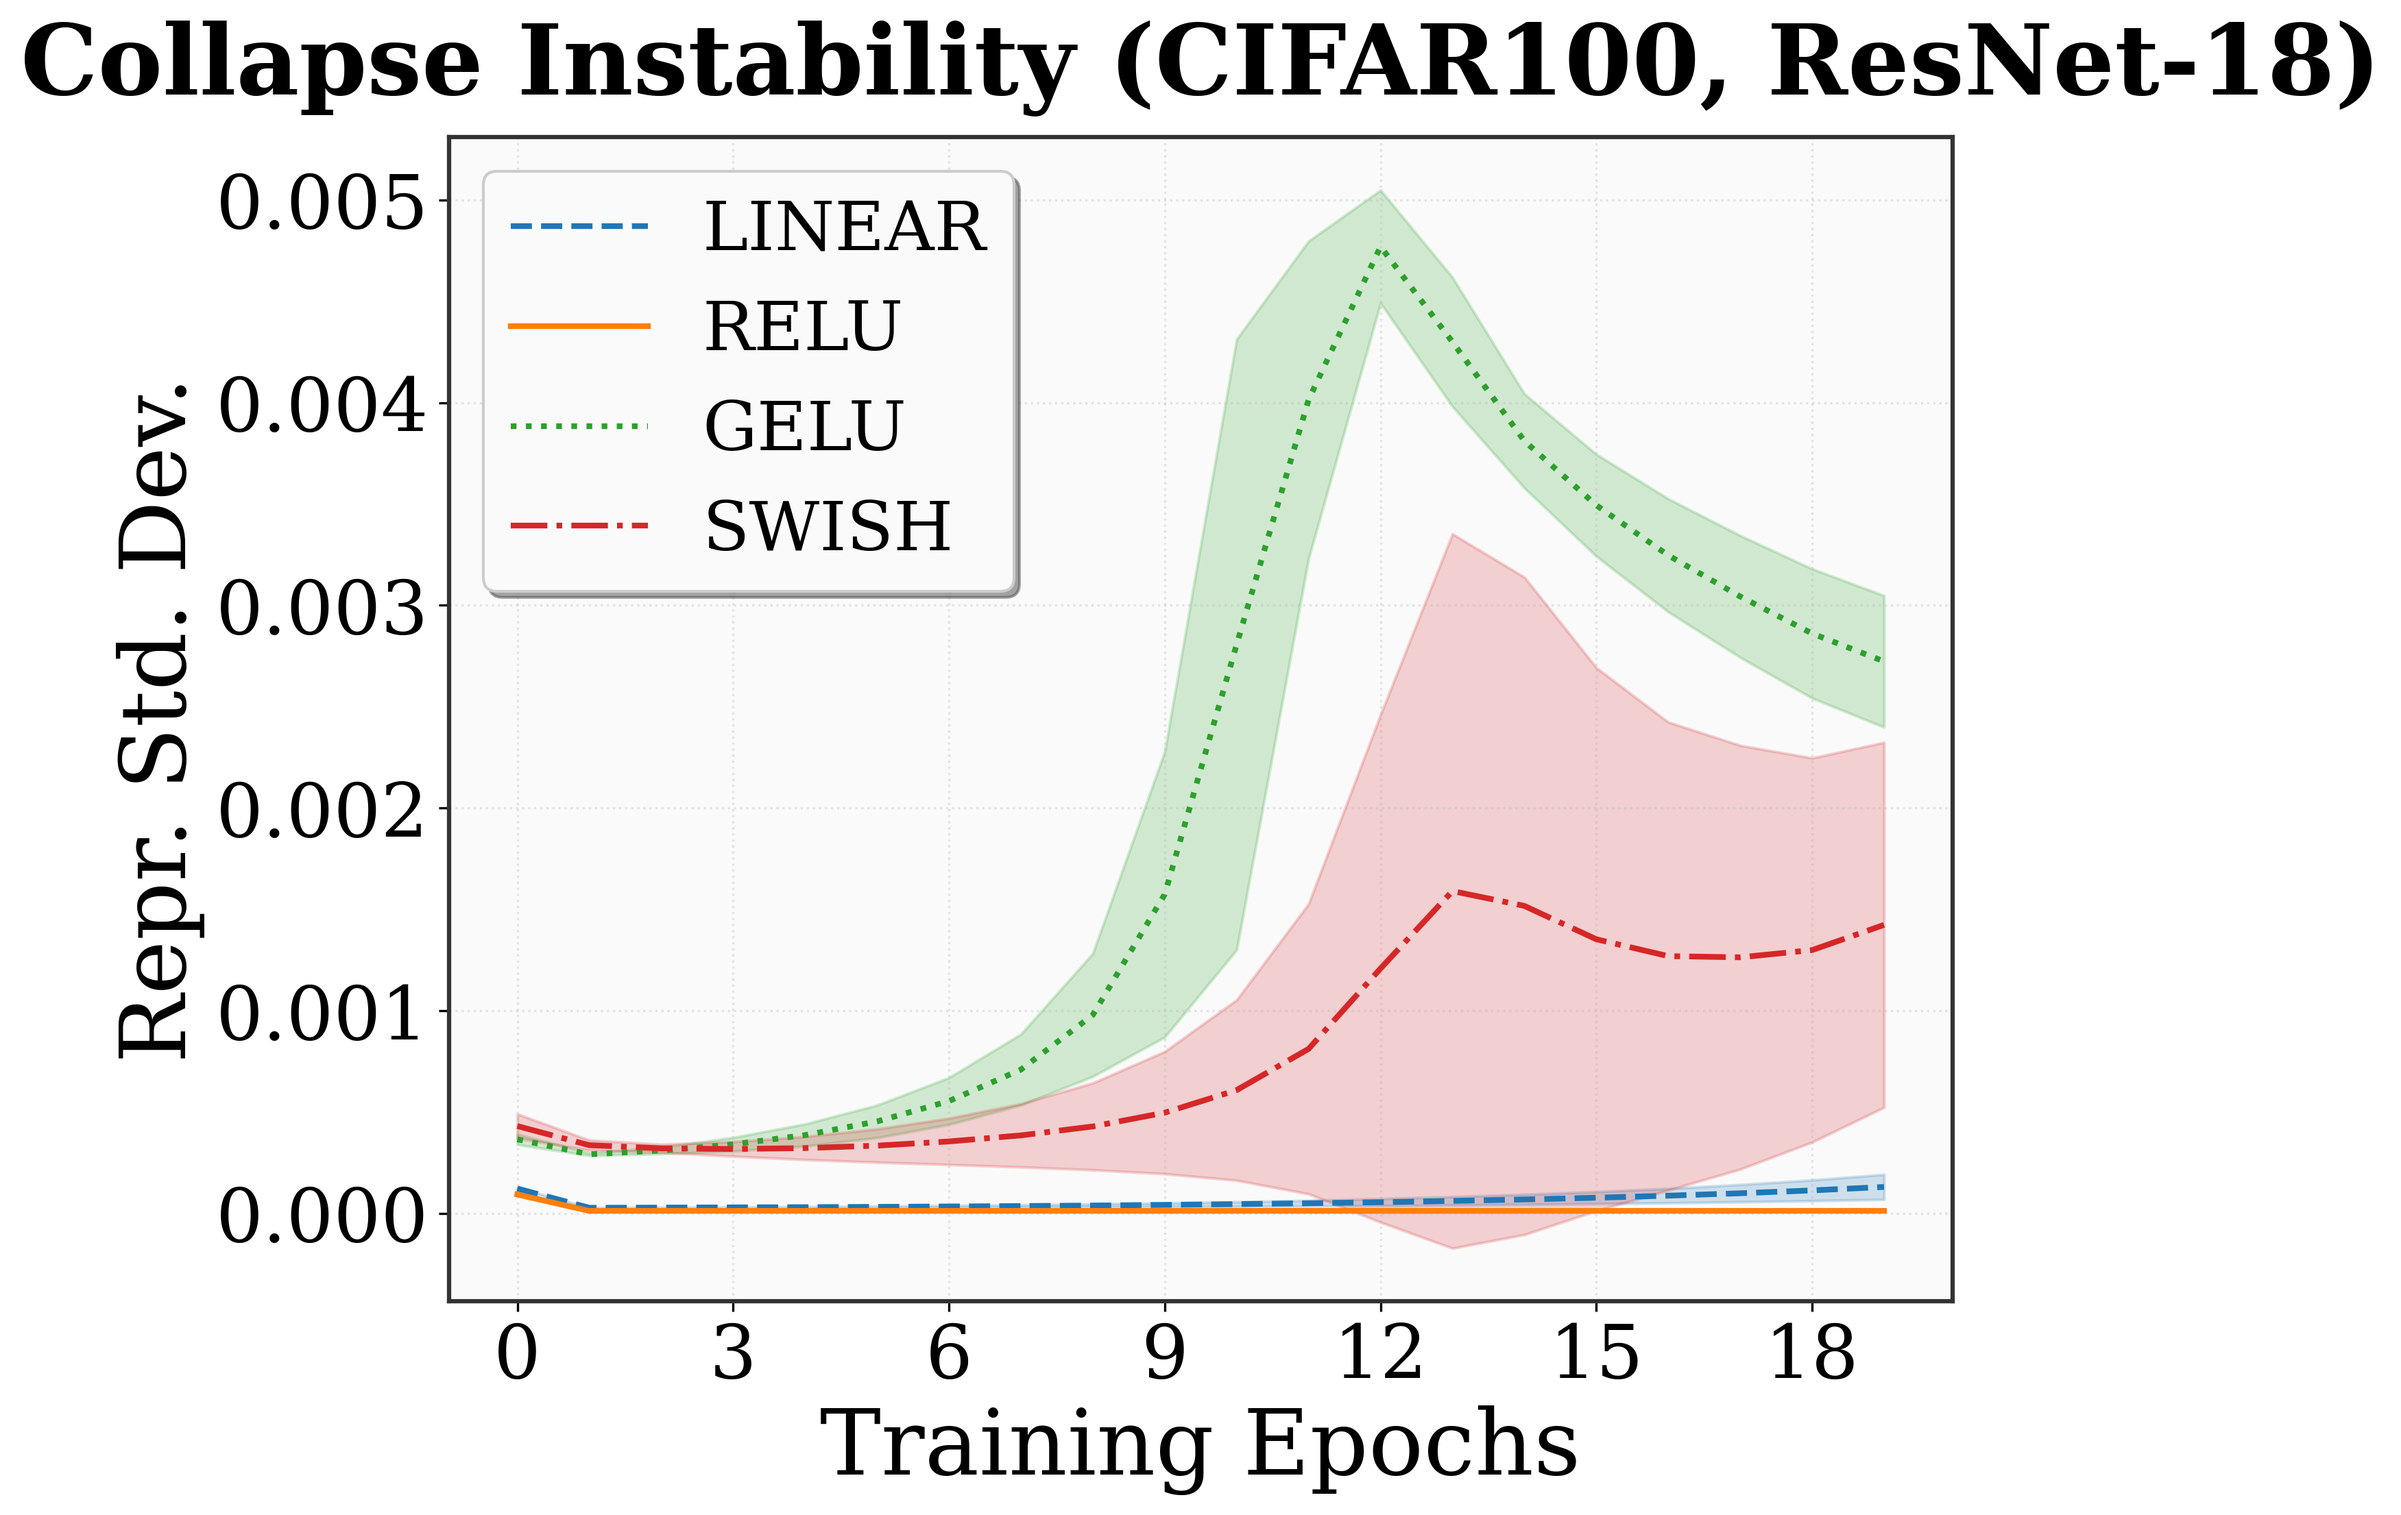
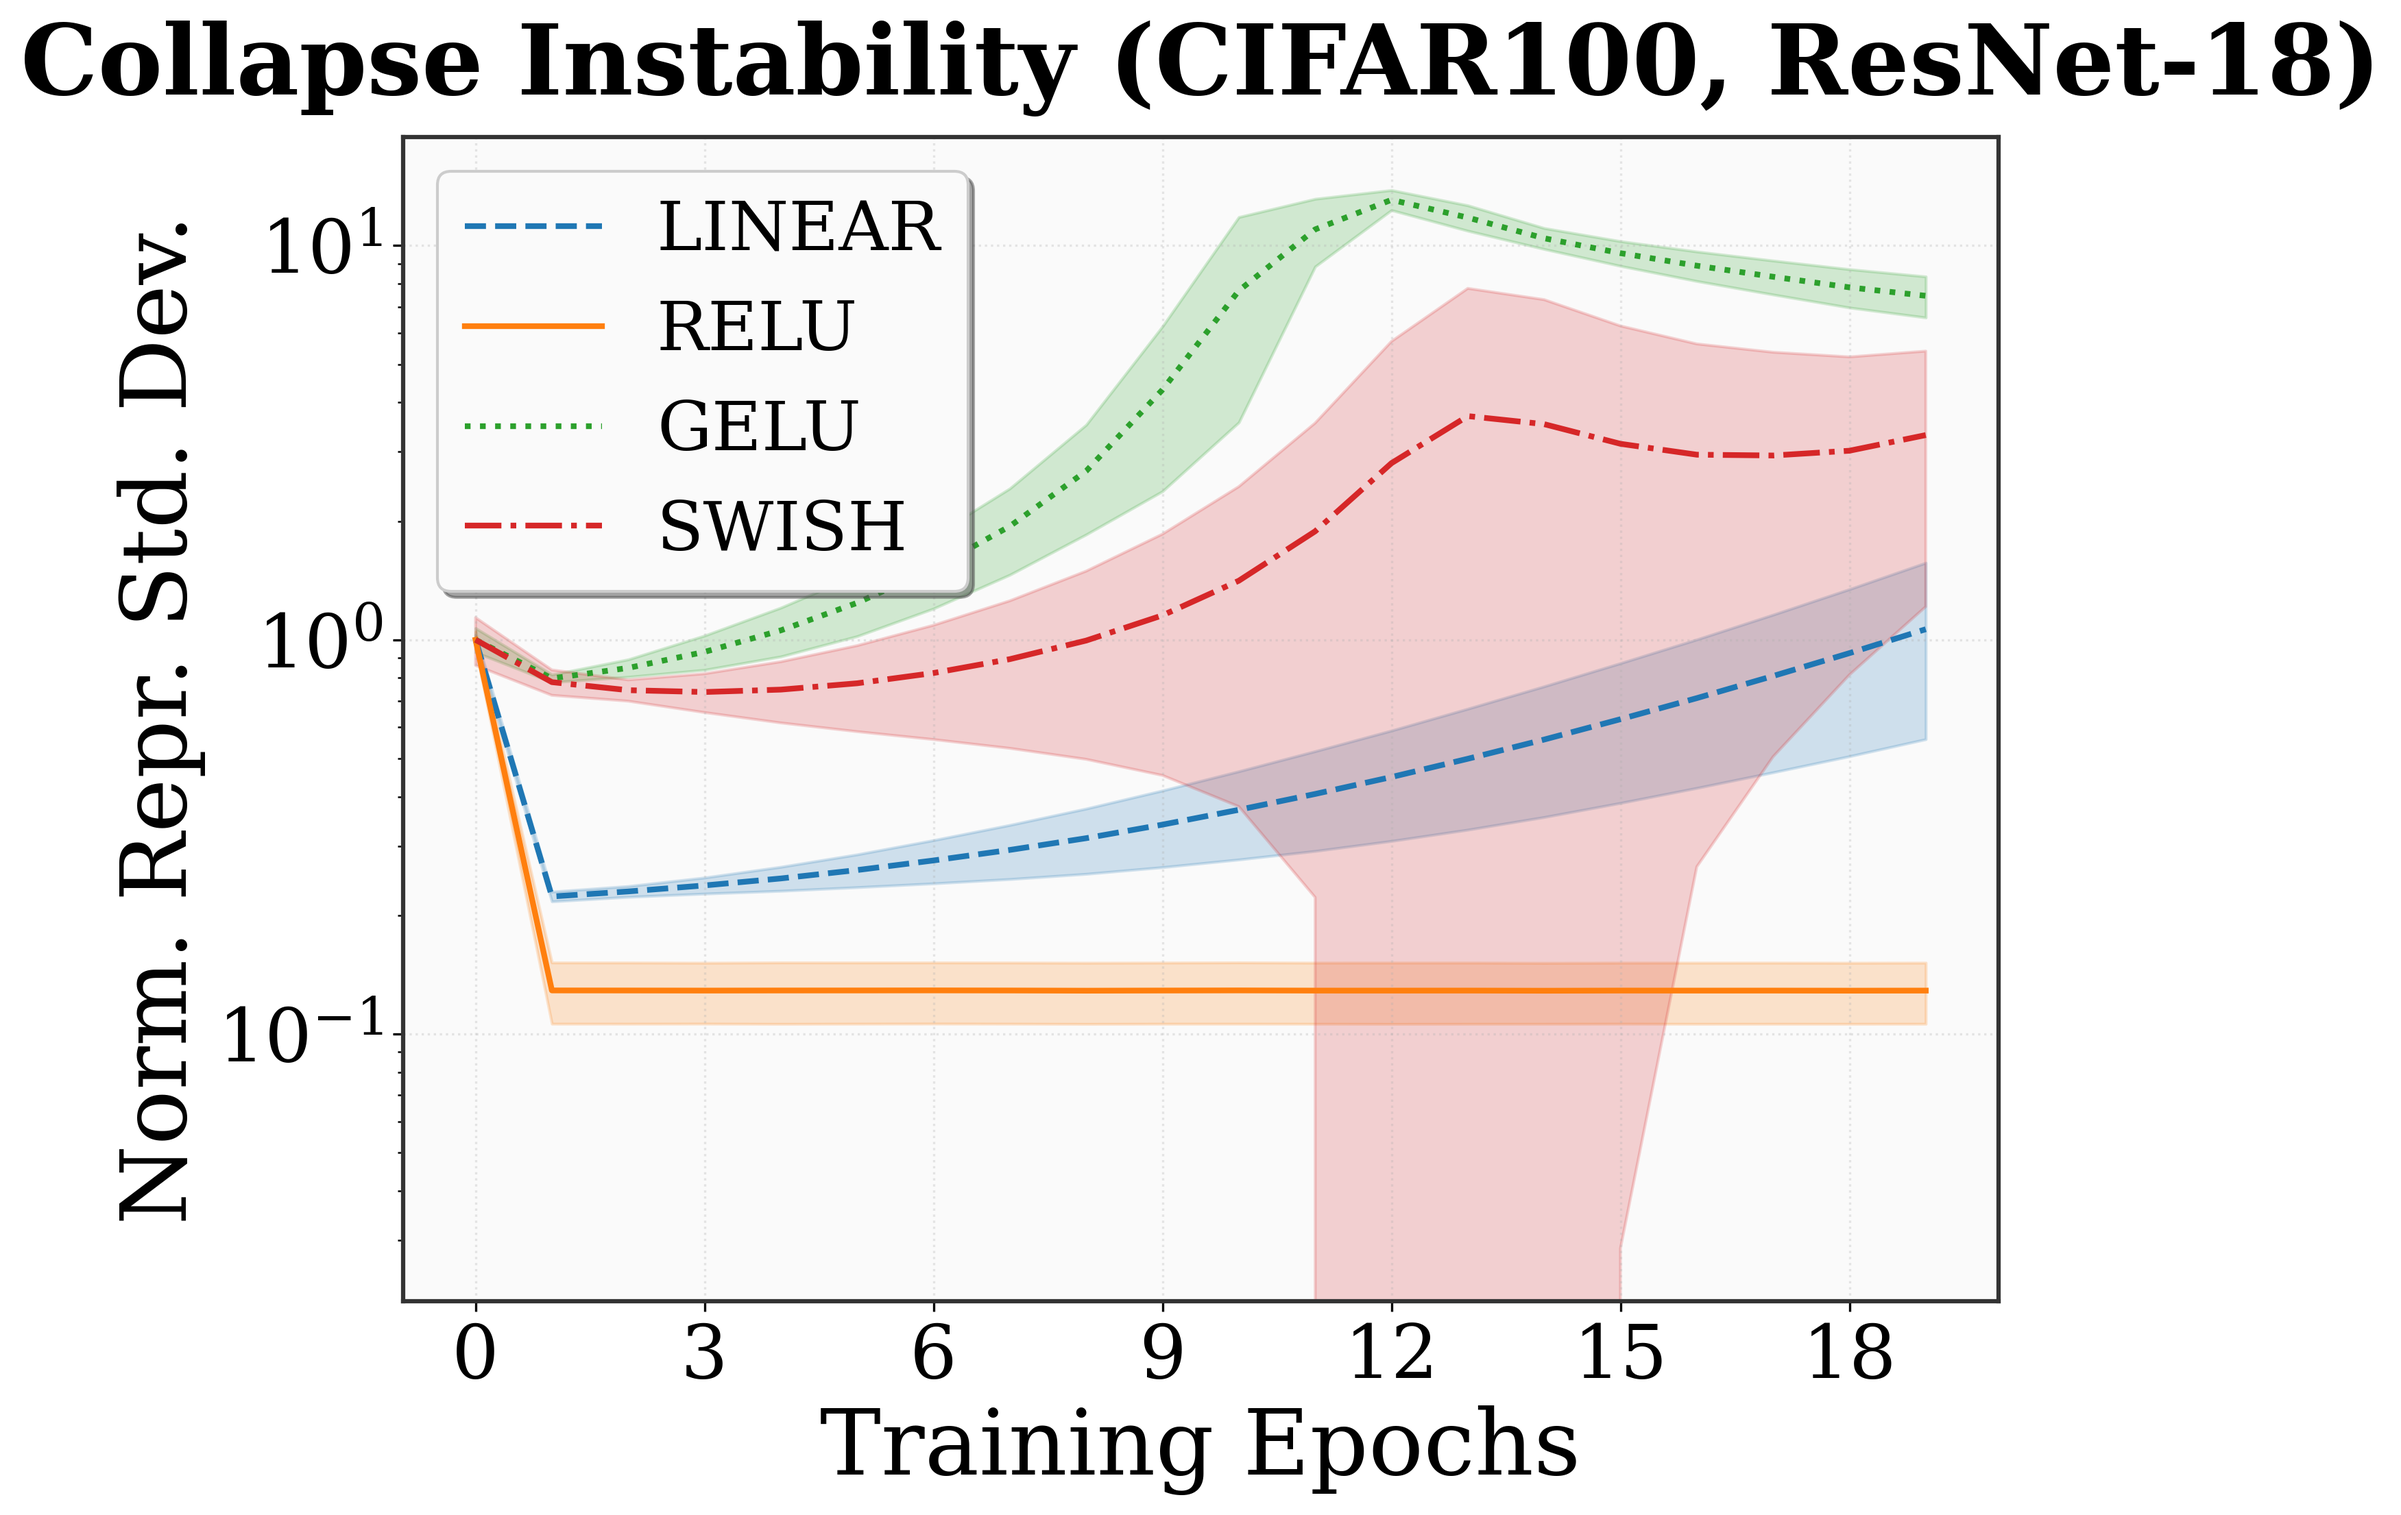
normalized collapse plots and update README

diff --git a/plot_results.py b/plot_results.py
@@ -80,27 +80,32 @@ def plot_collapse_instability(results_dir, dataset, architecture):
             epochs = range(len(results[activation]['mean']))
             mean = np.array(results[activation]['mean'])
             std = np.array(results[activation]['std'])
-            max_y_val = max(max_y_val, np.max(mean + std))
-            plt.plot(epochs, results[activation]['mean'], 
+            
+            initial_mean = mean[0] if mean[0] > 1e-8 else 1.0  # Avoid division by zero
+            mean_normalized = mean / initial_mean
+            std_normalized = std / initial_mean
+            
+            max_y_val = max(max_y_val, np.max(mean_normalized + std_normalized))
+            plt.plot(epochs, mean_normalized, 
                     label=f'{activation.upper()}', 
                     linestyle=styles.get(activation, '-'),
                     color=colors.get(activation),
                     linewidth=2)
             plt.fill_between(epochs, 
-                           results[activation]['mean'] - results[activation]['std'],
-                           results[activation]['mean'] + results[activation]['std'], 
+                           mean_normalized - std_normalized,
+                           mean_normalized + std_normalized, 
                            alpha=0.2,
                            color=colors.get(activation))
     
     plt.title(f'Collapse Instability ({dataset.upper()}, {architecture})', fontweight='bold', pad=15)
     plt.xlabel('Training Epochs')
-    plt.ylabel('Repr. Std. Dev.')
+    plt.ylabel('Norm. Repr. Std. Dev.')
+    plt.yscale('log')  # Use log scale to show relative dynamics
     
     # Force integer x-axis ticks
     ax = plt.gca()
     # ax.set_ylim(0, max_y_val * 1.15) 
     ax.xaxis.set_major_locator(plt.MaxNLocator(integer=True))
-    ax.yaxis.set_major_locator(plt.MaxNLocator(nbins='auto', prune='upper'))
     
     plt.legend(frameon=True, shadow=True)
     plt.grid(alpha=0.3, linestyle=':')

diff --git a/README.md b/README.md
@@ -121,8 +121,8 @@ Default experiment settings (see `ExperimentConfig` in `experiments.py`):
 |-----------|---------|-------------|
 | `num_seeds` | 3 | Random seeds for confidence intervals |
 | `batch_size` | 512 | Training batch size |
-| `num_epochs_collapse` | 10 | Epochs for collapse experiment |
-| `num_epochs_guillotine` | 20 | SimCLR pretraining epochs |
+| `num_epochs_collapse` | 20 | Epochs for collapse experiment |
+| `num_epochs_guillotine` | 50 | SimCLR pretraining epochs |
 | `exp2_probe_epochs` | 5 | Probe training epochs |
 | `lr_collapse` | 0.05 | Learning rate for SimSiam |
 | `lr_guillotine` | 1e-3 | Learning rate for SimCLR |
